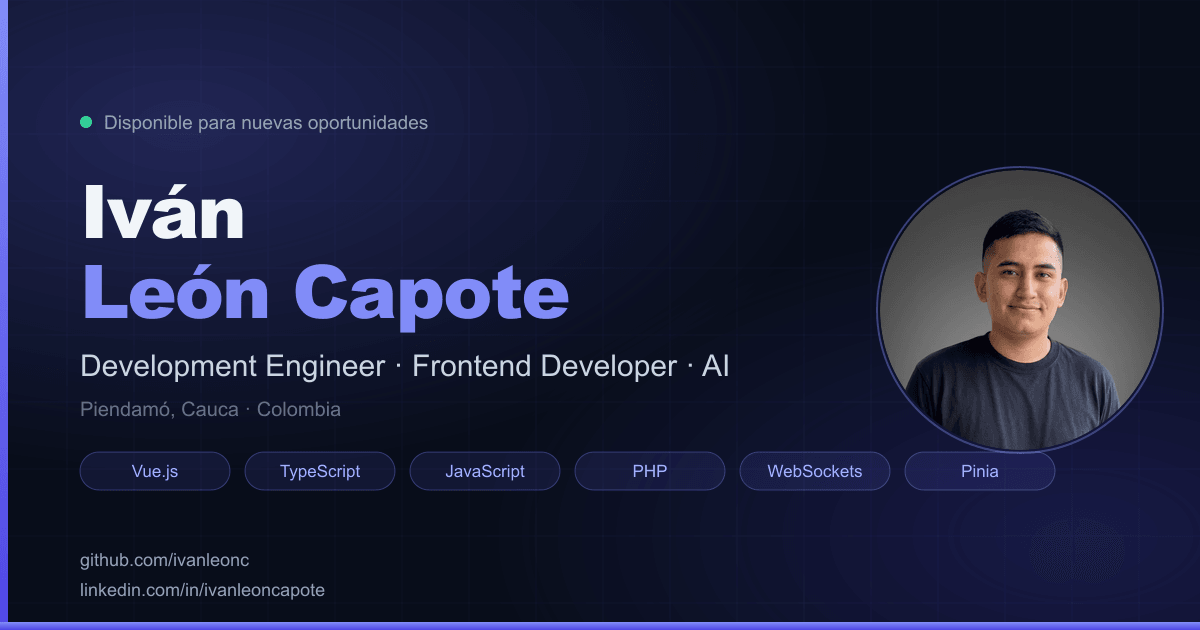
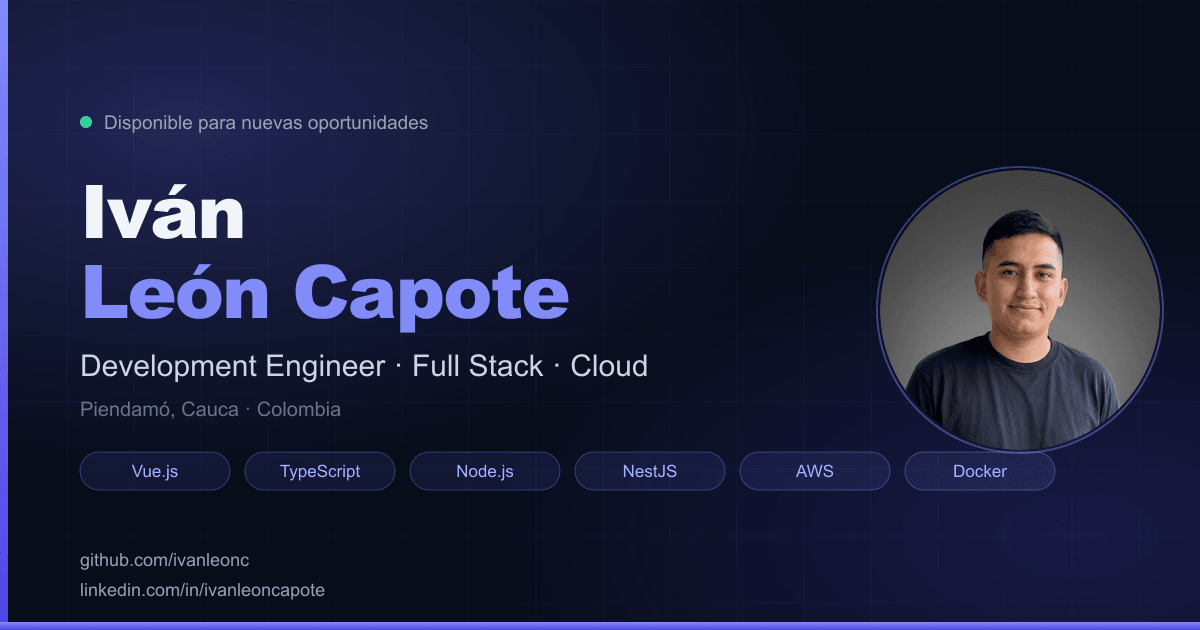
feat: actualizar perfil profesional y habilidades en cv.js, mejorar secciones de impresión y estilos

diff --git a/src/styles/global.css b/src/styles/global.css
@@ -656,6 +656,22 @@ main[id] {
     gap: 1mm;
   }
 
+  .print-tag-list {
+    display: flex;
+    flex-wrap: wrap;
+    gap: 1mm;
+  }
+
+  .print-tag {
+    white-space: nowrap;
+    border-radius: 10mm;
+    padding: 0.5mm 2mm;
+    font-size: 6pt;
+    color: #a5b4fc !important;
+    background: rgba(99, 102, 241, 0.1) !important;
+    border: 0.5pt solid rgba(99, 102, 241, 0.3) !important;
+  }
+
   .print-skill-item {
     display: flex;
     flex-direction: column;
